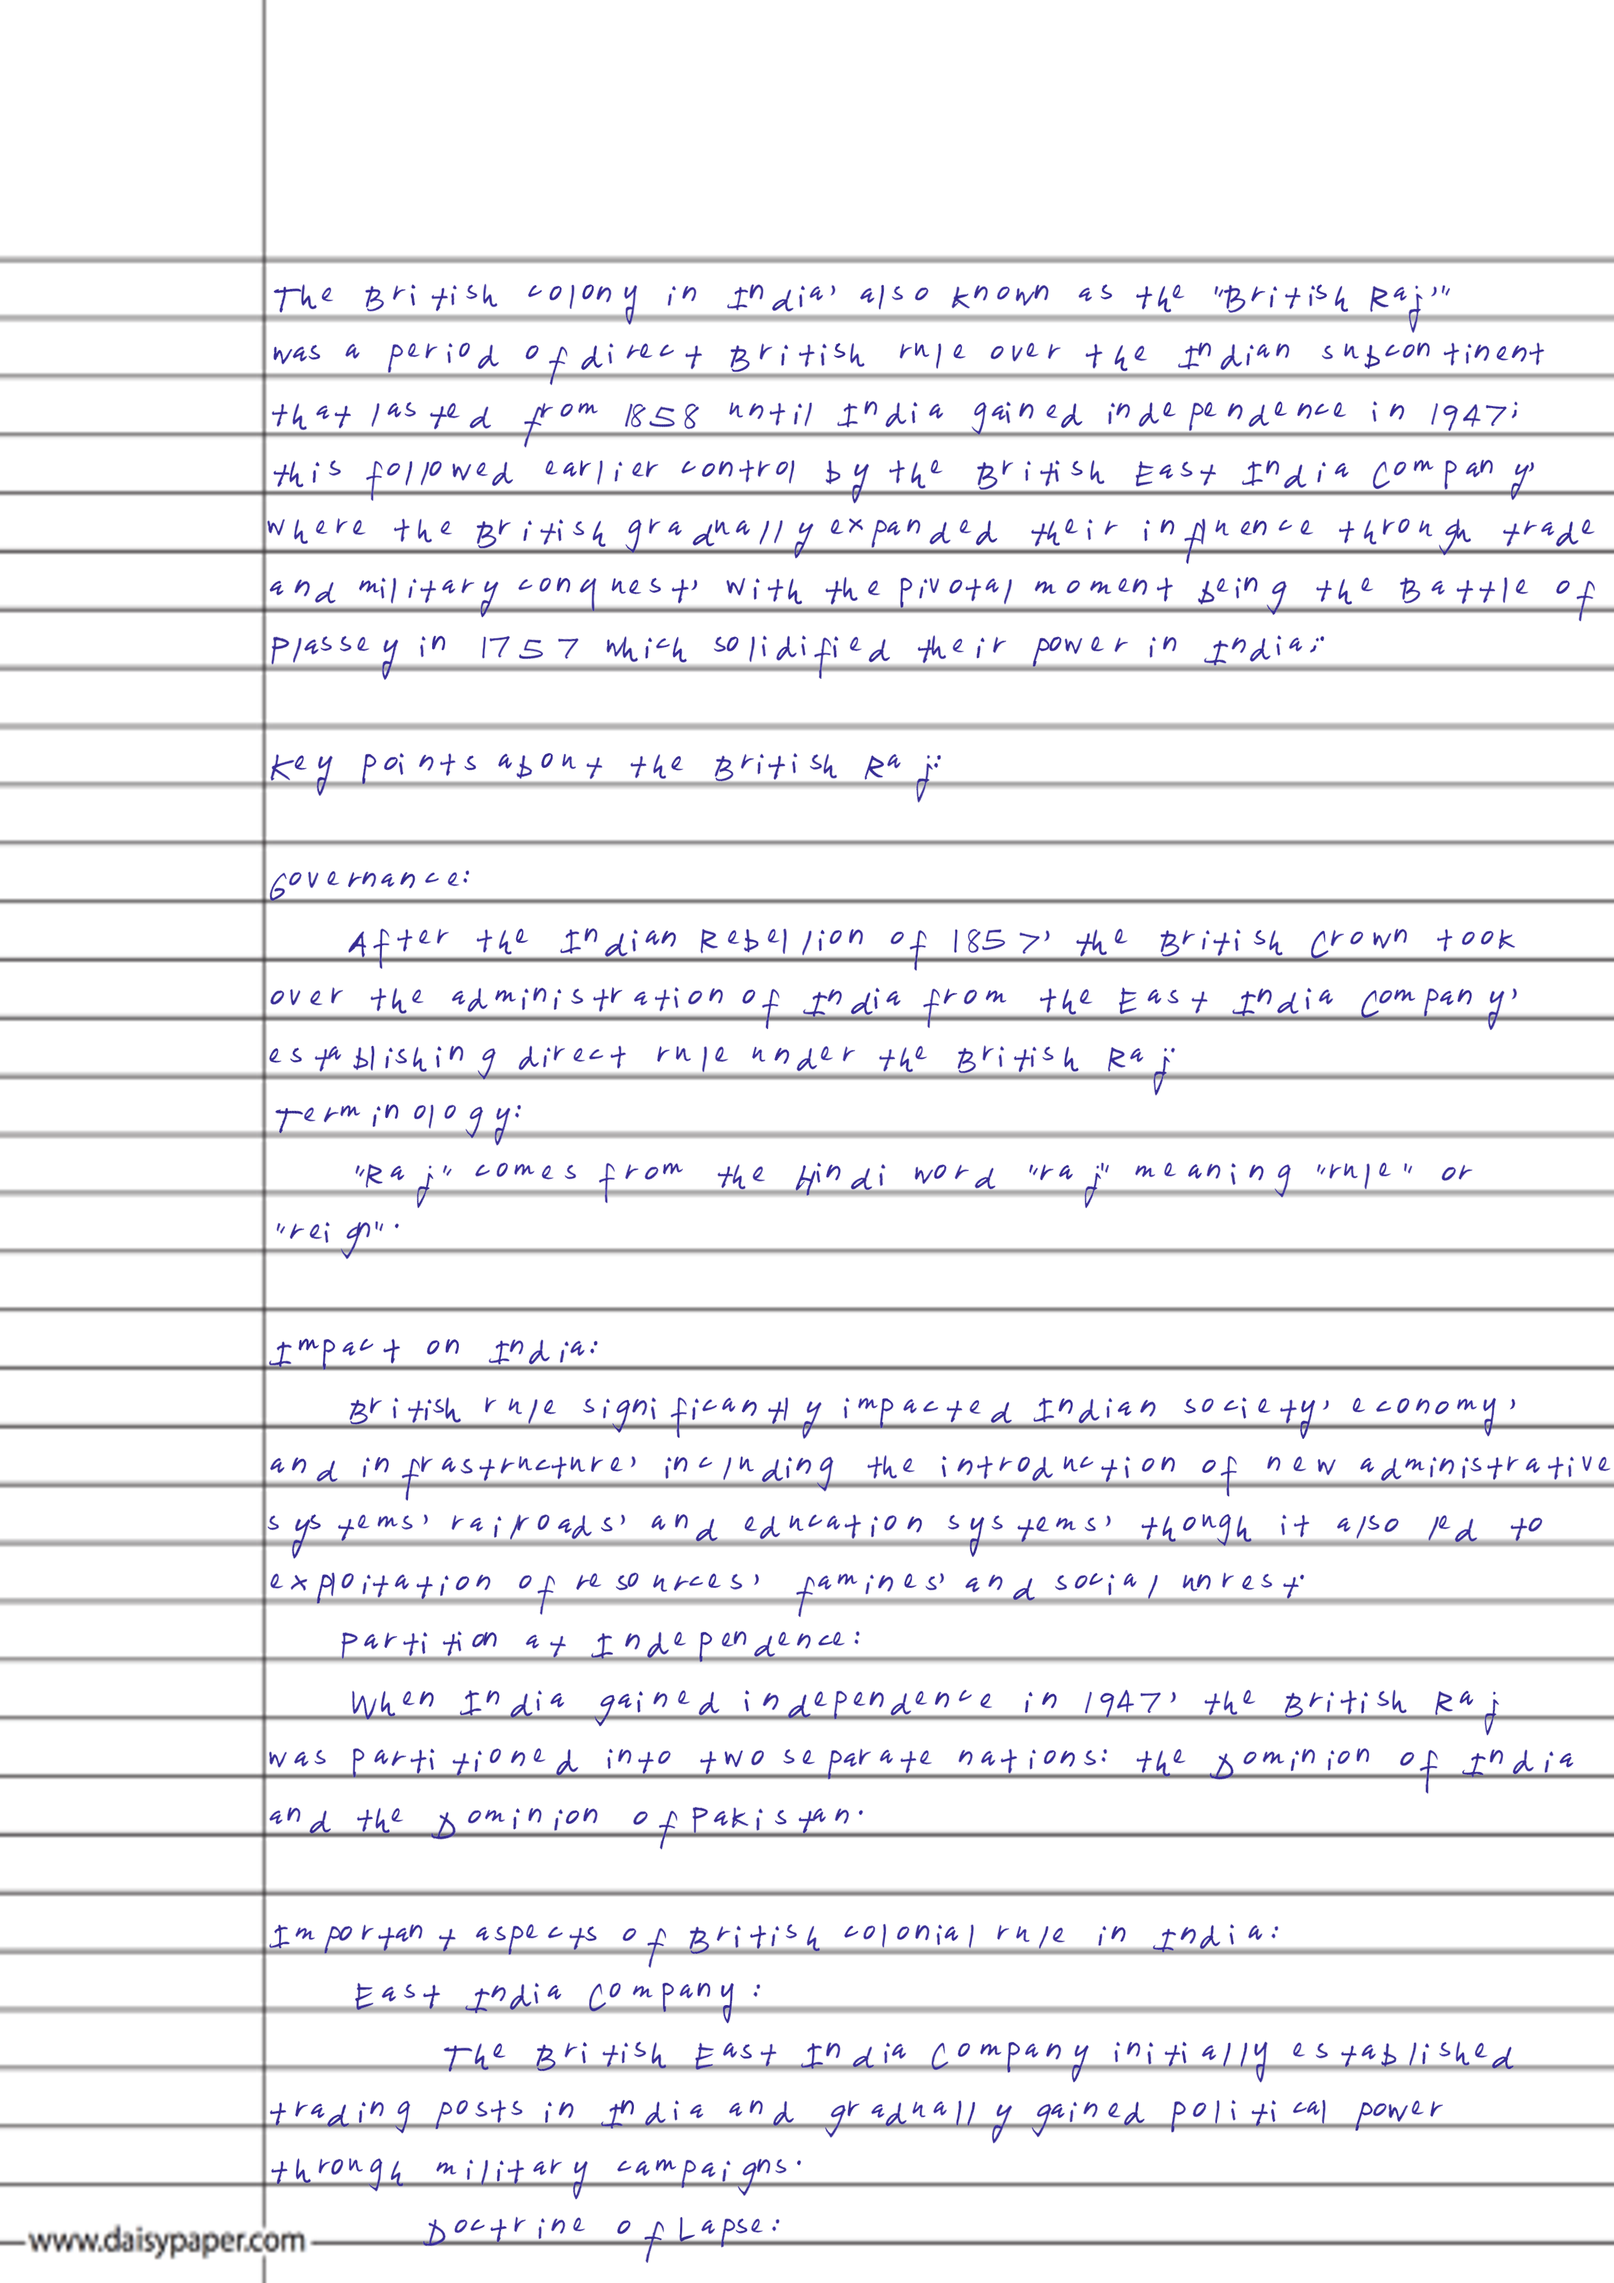
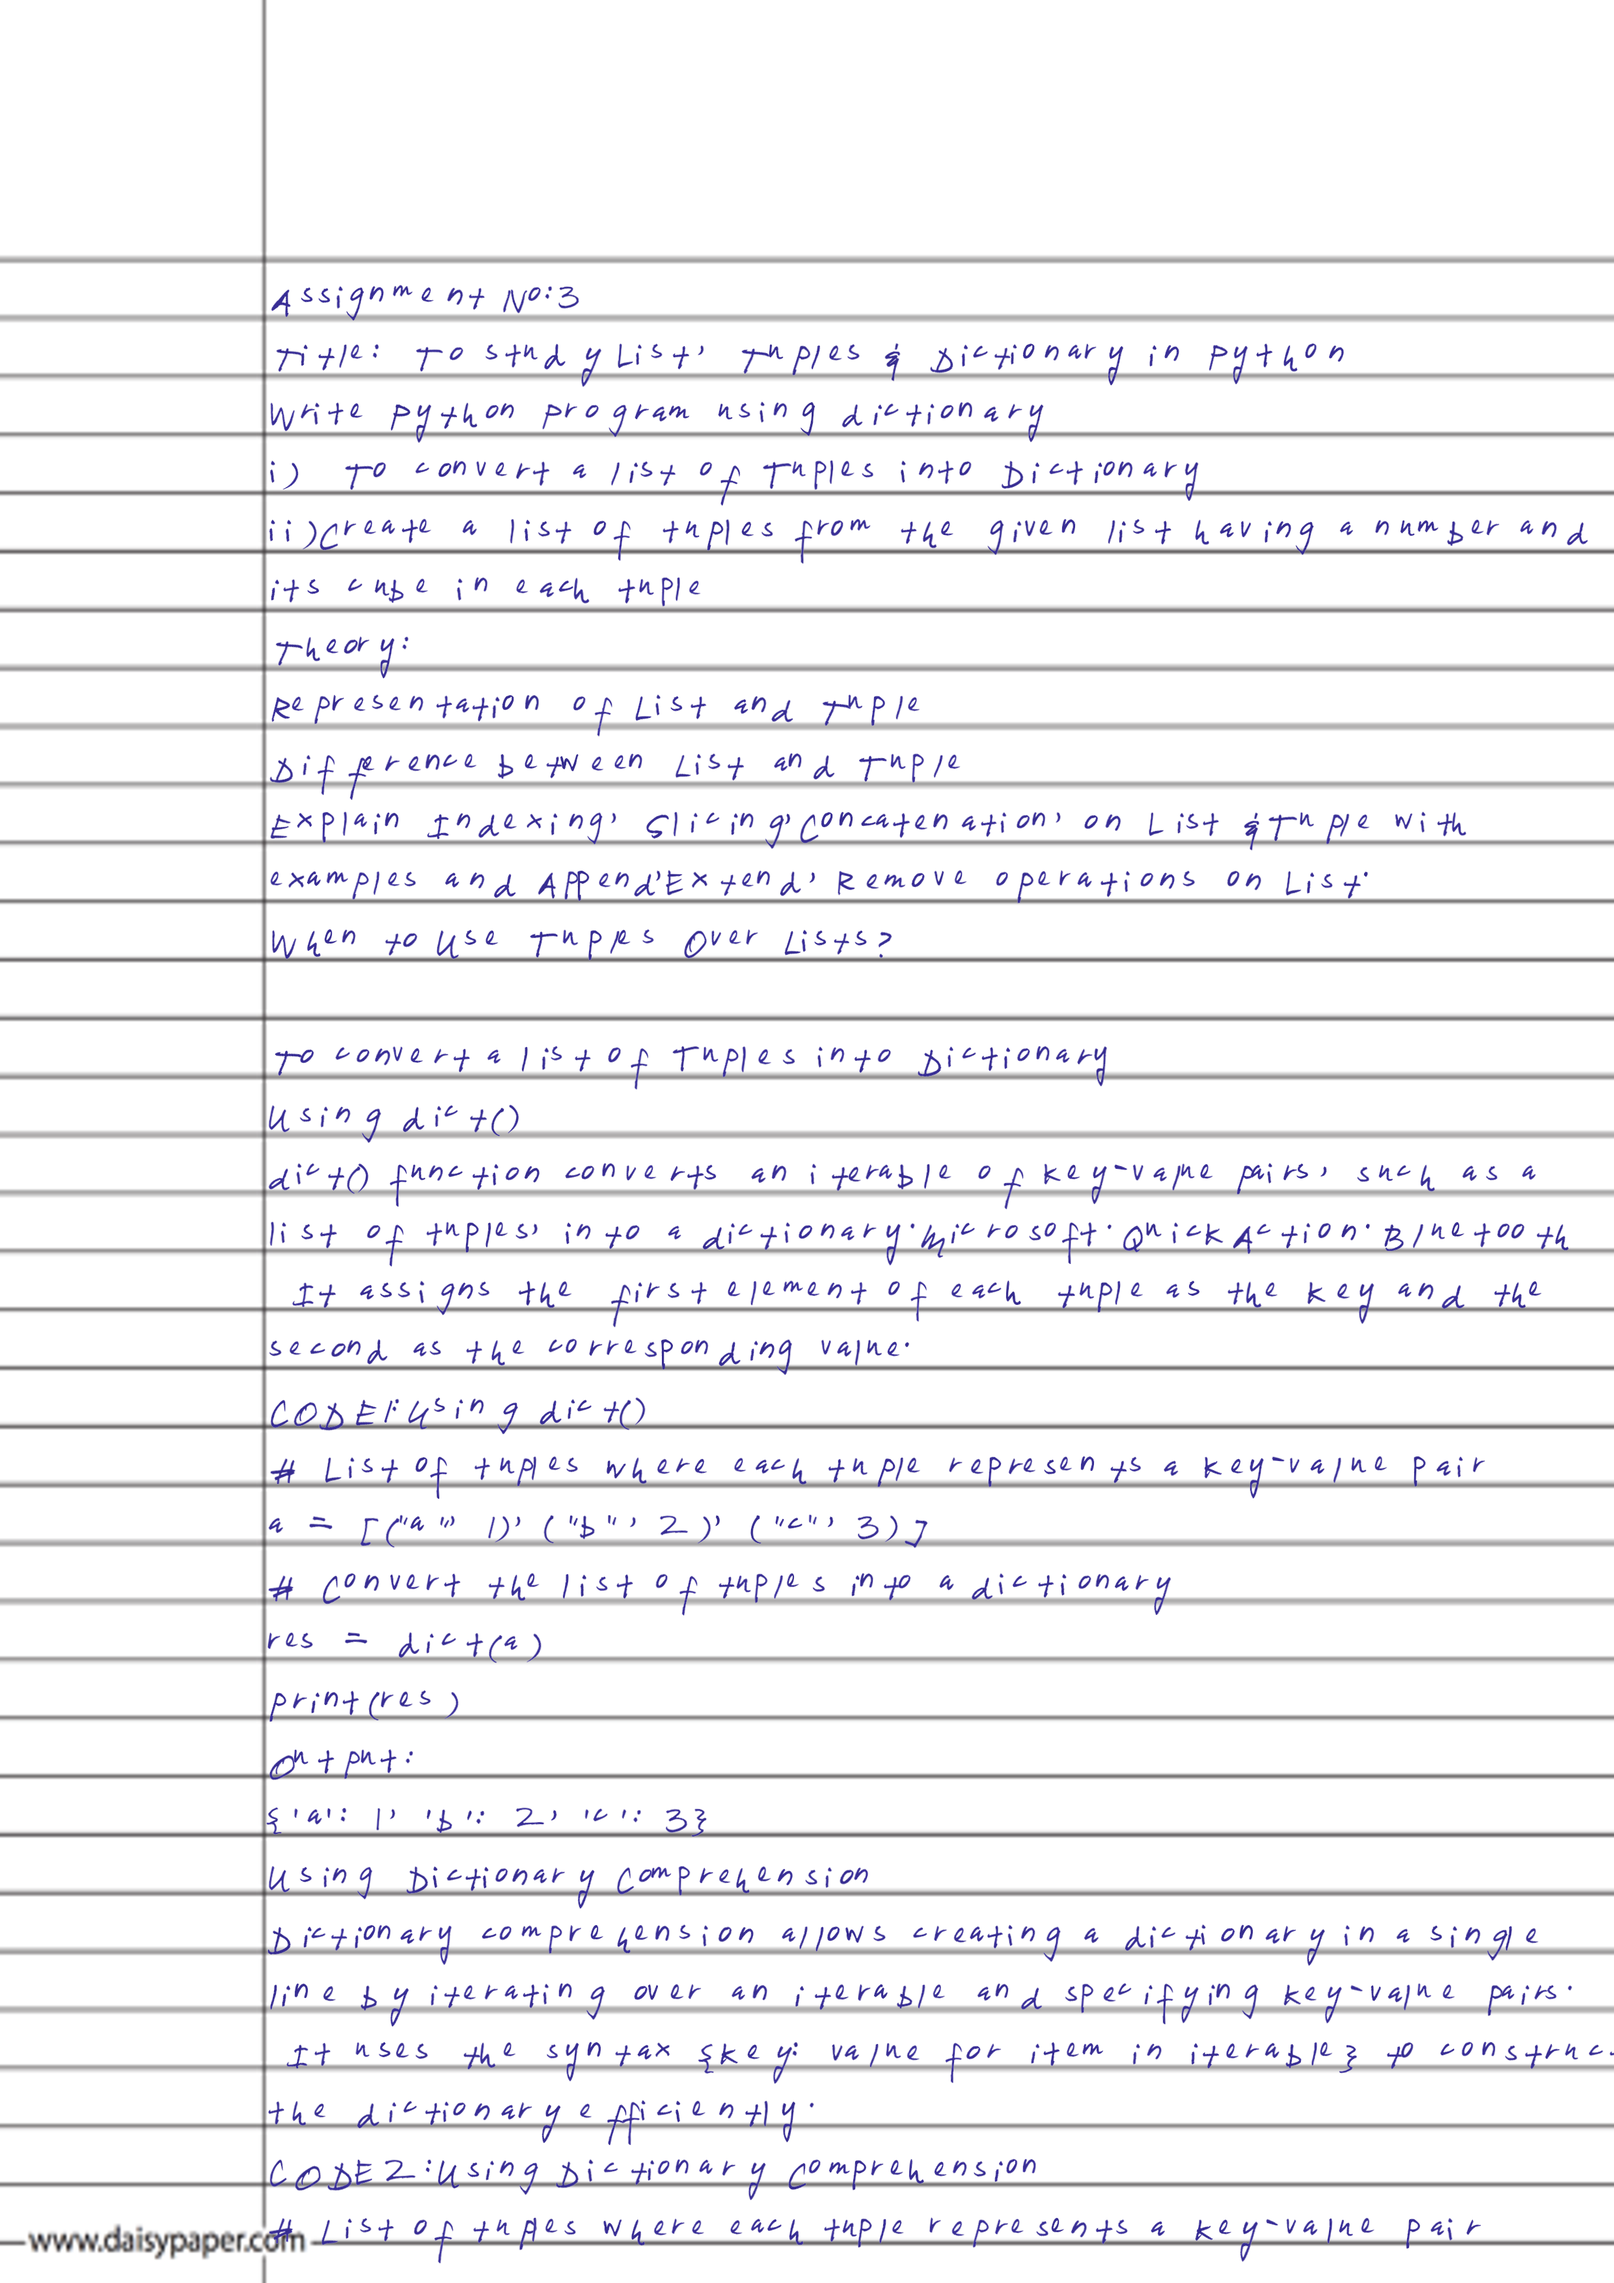
printer tested

diff --git a/handwritten_letter_generator/src/generate_letter.py b/handwritten_letter_generator/src/generate_letter.py
@@ -8,9 +8,9 @@ import math
 # Page and Text Layout Settings
 # ---------------------------
 A4_WIDTH, A4_HEIGHT = 2480, 3508  # A4 page at 300 dpi
-START_X = 400.0    # Horizontal margin (can be a decimal)
-START_Y = 426    # Vertical position of the first line (can be a decimal)
-LINE_HEIGHT = 90 # Spacing between lines (can be a decimal)
+START_X = 267.0    # Horizontal margin (can be a decimal)
+START_Y = 460.629    # Vertical position of the first line (can be a decimal)
+LINE_HEIGHT = 96.26 # Spacing between lines (can be a decimal)
 RIGHT_MARGIN = 600  # Right margin (for wrapping)
 RIGHT_PADDING = 200  # Additional padding on the right side
 
@@ -45,7 +45,7 @@ TEXT_COLOR = (55, 45, 146)  # Base blue color
 BRIGHTNESS_VARIATION = 0.01   # ±10% lightness variation
 
 # Option to show or hide the background:
-SHOW_BACKGROUND = True   # Set to False to generate output without the background
+SHOW_BACKGROUND = False   # Set to False to generate output without the background
 
 # ---------------------------
 # Ink Brightness Variation Function
